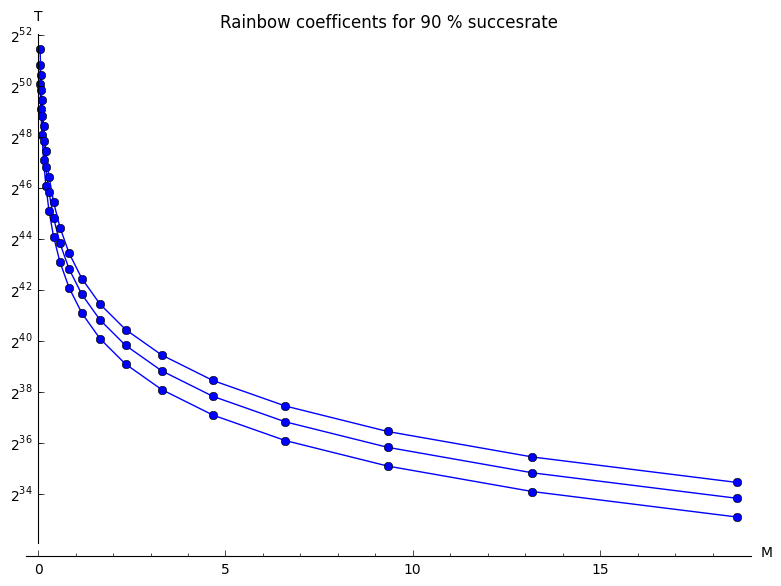
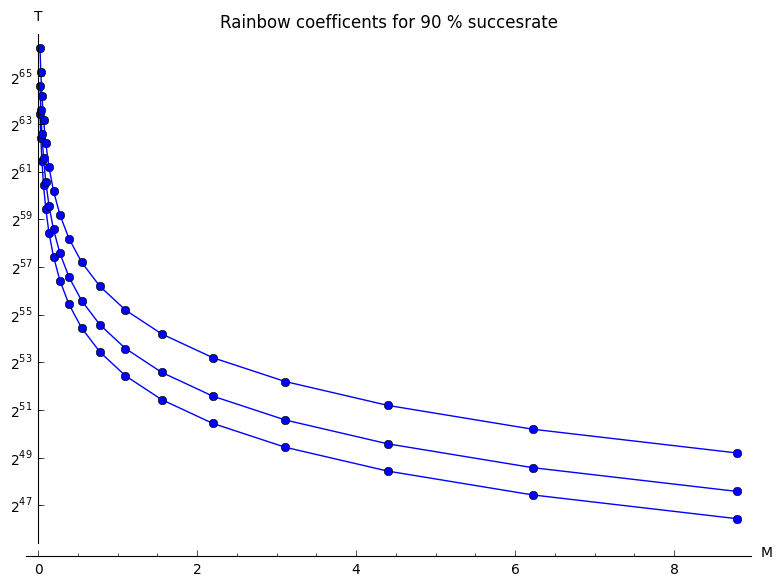
fixed math and uploaded new rainbow graphs and tables

diff --git a/src/math/rainbowtab.tex b/src/math/rainbowtab.tex
@@ -147,3 +147,92 @@ $2^{44.50}$ & $2^{19.40}$ & $9.33$ & $2^{36.46}$ \\
 $2^{45.00}$ & $2^{18.90}$ & $13.19$ & $2^{35.46}$ \\
 $2^{45.50}$ & $2^{18.40}$ & $18.66$ & $2^{34.46}$ \\
 \end{tabular}
+
+ \ \text{\texttt{Success{ }={ }0.580000,{ }Rmsc{ }={ }1.086067,{ }l{ }={ }1,{ }Offline{ }phase{ }={ }2{\char`\^}64.119113}}
+\begin{tabular}{llll}
+m & t & M(TB) & T \\ \hline
+$2^{31.50}$ & $2^{32.62}$ & $0.02$ & $2^{63.43}$ \\
+$2^{32.00}$ & $2^{32.12}$ & $0.03$ & $2^{62.43}$ \\
+$2^{32.50}$ & $2^{31.62}$ & $0.05$ & $2^{61.43}$ \\
+$2^{33.00}$ & $2^{31.12}$ & $0.07$ & $2^{60.43}$ \\
+$2^{33.50}$ & $2^{30.62}$ & $0.10$ & $2^{59.43}$ \\
+$2^{34.00}$ & $2^{30.12}$ & $0.14$ & $2^{58.43}$ \\
+$2^{34.50}$ & $2^{29.62}$ & $0.19$ & $2^{57.43}$ \\
+$2^{35.00}$ & $2^{29.12}$ & $0.27$ & $2^{56.43}$ \\
+$2^{35.50}$ & $2^{28.62}$ & $0.39$ & $2^{55.43}$ \\
+$2^{36.00}$ & $2^{28.12}$ & $0.55$ & $2^{54.43}$ \\
+$2^{36.50}$ & $2^{27.62}$ & $0.78$ & $2^{53.43}$ \\
+$2^{37.00}$ & $2^{27.12}$ & $1.10$ & $2^{52.43}$ \\
+$2^{37.50}$ & $2^{26.62}$ & $1.55$ & $2^{51.43}$ \\
+$2^{38.00}$ & $2^{26.12}$ & $2.20$ & $2^{50.43}$ \\
+$2^{38.50}$ & $2^{25.62}$ & $3.11$ & $2^{49.43}$ \\
+$2^{39.00}$ & $2^{25.12}$ & $4.40$ & $2^{48.43}$ \\
+$2^{39.50}$ & $2^{24.62}$ & $6.22$ & $2^{47.43}$ \\
+$2^{40.00}$ & $2^{24.12}$ & $8.80$ & $2^{46.43}$ \\
+\end{tabular}
+ \ \text{\texttt{Success{ }={ }0.730000,{ }Rmsc{ }={ }1.849002,{ }l{ }={ }1,{ }Offline{ }phase{ }={ }2{\char`\^}64.886747}}
+\begin{tabular}{llll}
+m & t & M(TB) & T \\ \hline
+$2^{31.50}$ & $2^{33.39}$ & $0.02$ & $2^{64.58}$ \\
+$2^{32.00}$ & $2^{32.89}$ & $0.03$ & $2^{63.58}$ \\
+$2^{32.50}$ & $2^{32.39}$ & $0.05$ & $2^{62.58}$ \\
+$2^{33.00}$ & $2^{31.89}$ & $0.07$ & $2^{61.58}$ \\
+$2^{33.50}$ & $2^{31.39}$ & $0.10$ & $2^{60.58}$ \\
+$2^{34.00}$ & $2^{30.89}$ & $0.14$ & $2^{59.58}$ \\
+$2^{34.50}$ & $2^{30.39}$ & $0.19$ & $2^{58.58}$ \\
+$2^{35.00}$ & $2^{29.89}$ & $0.27$ & $2^{57.58}$ \\
+$2^{35.50}$ & $2^{29.39}$ & $0.39$ & $2^{56.58}$ \\
+$2^{36.00}$ & $2^{28.89}$ & $0.55$ & $2^{55.58}$ \\
+$2^{36.50}$ & $2^{28.39}$ & $0.78$ & $2^{54.58}$ \\
+$2^{37.00}$ & $2^{27.89}$ & $1.10$ & $2^{53.58}$ \\
+$2^{37.50}$ & $2^{27.39}$ & $1.55$ & $2^{52.58}$ \\
+$2^{38.00}$ & $2^{26.89}$ & $2.20$ & $2^{51.58}$ \\
+$2^{38.50}$ & $2^{26.39}$ & $3.11$ & $2^{50.58}$ \\
+$2^{39.00}$ & $2^{25.89}$ & $4.40$ & $2^{49.58}$ \\
+$2^{39.50}$ & $2^{25.39}$ & $6.22$ & $2^{48.58}$ \\
+$2^{40.00}$ & $2^{24.89}$ & $8.80$ & $2^{47.58}$ \\
+\end{tabular}
+ \ \text{\texttt{Success{ }={ }0.900000,{ }Rmsc{ }={ }4.324555,{ }l{ }={ }1,{ }Offline{ }phase{ }={ }2{\char`\^}66.112552}}
+\begin{tabular}{llll}
+m & t & M(TB) & T \\ \hline
+$2^{31.50}$ & $2^{34.61}$ & $0.02$ & $2^{66.19}$ \\
+$2^{32.00}$ & $2^{34.11}$ & $0.03$ & $2^{65.19}$ \\
+$2^{32.50}$ & $2^{33.61}$ & $0.05$ & $2^{64.19}$ \\
+$2^{33.00}$ & $2^{33.11}$ & $0.07$ & $2^{63.19}$ \\
+$2^{33.50}$ & $2^{32.61}$ & $0.10$ & $2^{62.19}$ \\
+$2^{34.00}$ & $2^{32.11}$ & $0.14$ & $2^{61.19}$ \\
+$2^{34.50}$ & $2^{31.61}$ & $0.19$ & $2^{60.19}$ \\
+$2^{35.00}$ & $2^{31.11}$ & $0.27$ & $2^{59.19}$ \\
+$2^{35.50}$ & $2^{30.61}$ & $0.39$ & $2^{58.19}$ \\
+$2^{36.00}$ & $2^{30.11}$ & $0.55$ & $2^{57.19}$ \\
+$2^{36.50}$ & $2^{29.61}$ & $0.78$ & $2^{56.19}$ \\
+$2^{37.00}$ & $2^{29.11}$ & $1.10$ & $2^{55.19}$ \\
+$2^{37.50}$ & $2^{28.61}$ & $1.55$ & $2^{54.19}$ \\
+$2^{38.00}$ & $2^{28.11}$ & $2.20$ & $2^{53.19}$ \\
+$2^{38.50}$ & $2^{27.61}$ & $3.11$ & $2^{52.19}$ \\
+$2^{39.00}$ & $2^{27.11}$ & $4.40$ & $2^{51.19}$ \\
+$2^{39.50}$ & $2^{26.61}$ & $6.22$ & $2^{50.19}$ \\
+$2^{40.00}$ & $2^{26.11}$ & $8.80$ & $2^{49.19}$ \\
+\end{tabular}
+ \ \text{\texttt{Success{ }={ }0.580000,{ }Rmsc{ }={ }1.086067,{ }l{ }={ }1,{ }Offline{ }phase{ }={ }2{\char`\^}64.119113}}
+\begin{tabular}{llll}
+m & t & M(TB) & T \\ \hline
+$2^{31.50}$ & $2^{32.62}$ & $0.02$ & $2^{63.43}$ \\
+$2^{32.00}$ & $2^{32.12}$ & $0.03$ & $2^{62.43}$ \\
+$2^{32.50}$ & $2^{31.62}$ & $0.05$ & $2^{61.43}$ \\
+$2^{33.00}$ & $2^{31.12}$ & $0.07$ & $2^{60.43}$ \\
+$2^{33.50}$ & $2^{30.62}$ & $0.10$ & $2^{59.43}$ \\
+$2^{34.00}$ & $2^{30.12}$ & $0.14$ & $2^{58.43}$ \\
+$2^{34.50}$ & $2^{29.62}$ & $0.19$ & $2^{57.43}$ \\
+$2^{35.00}$ & $2^{29.12}$ & $0.27$ & $2^{56.43}$ \\
+$2^{35.50}$ & $2^{28.62}$ & $0.39$ & $2^{55.43}$ \\
+$2^{36.00}$ & $2^{28.12}$ & $0.55$ & $2^{54.43}$ \\
+$2^{36.50}$ & $2^{27.62}$ & $0.78$ & $2^{53.43}$ \\
+$2^{37.00}$ & $2^{27.12}$ & $1.10$ & $2^{52.43}$ \\
+$2^{37.50}$ & $2^{26.62}$ & $1.55$ & $2^{51.43}$ \\
+$2^{38.00}$ & $2^{26.12}$ & $2.20$ & $2^{50.43}$ \\
+$2^{38.50}$ & $2^{25.62}$ & $3.11$ & $2^{49.43}$ \\
+$2^{39.00}$ & $2^{25.12}$ & $4.40$ & $2^{48.43}$ \\
+$2^{39.50}$ & $2^{24.62}$ & $6.22$ & $2^{47.43}$ \\
+$2^{40.00}$ & $2^{24.12}$ & $8.80$ & $2^{46.43}$ \\
+\end{tabular}
